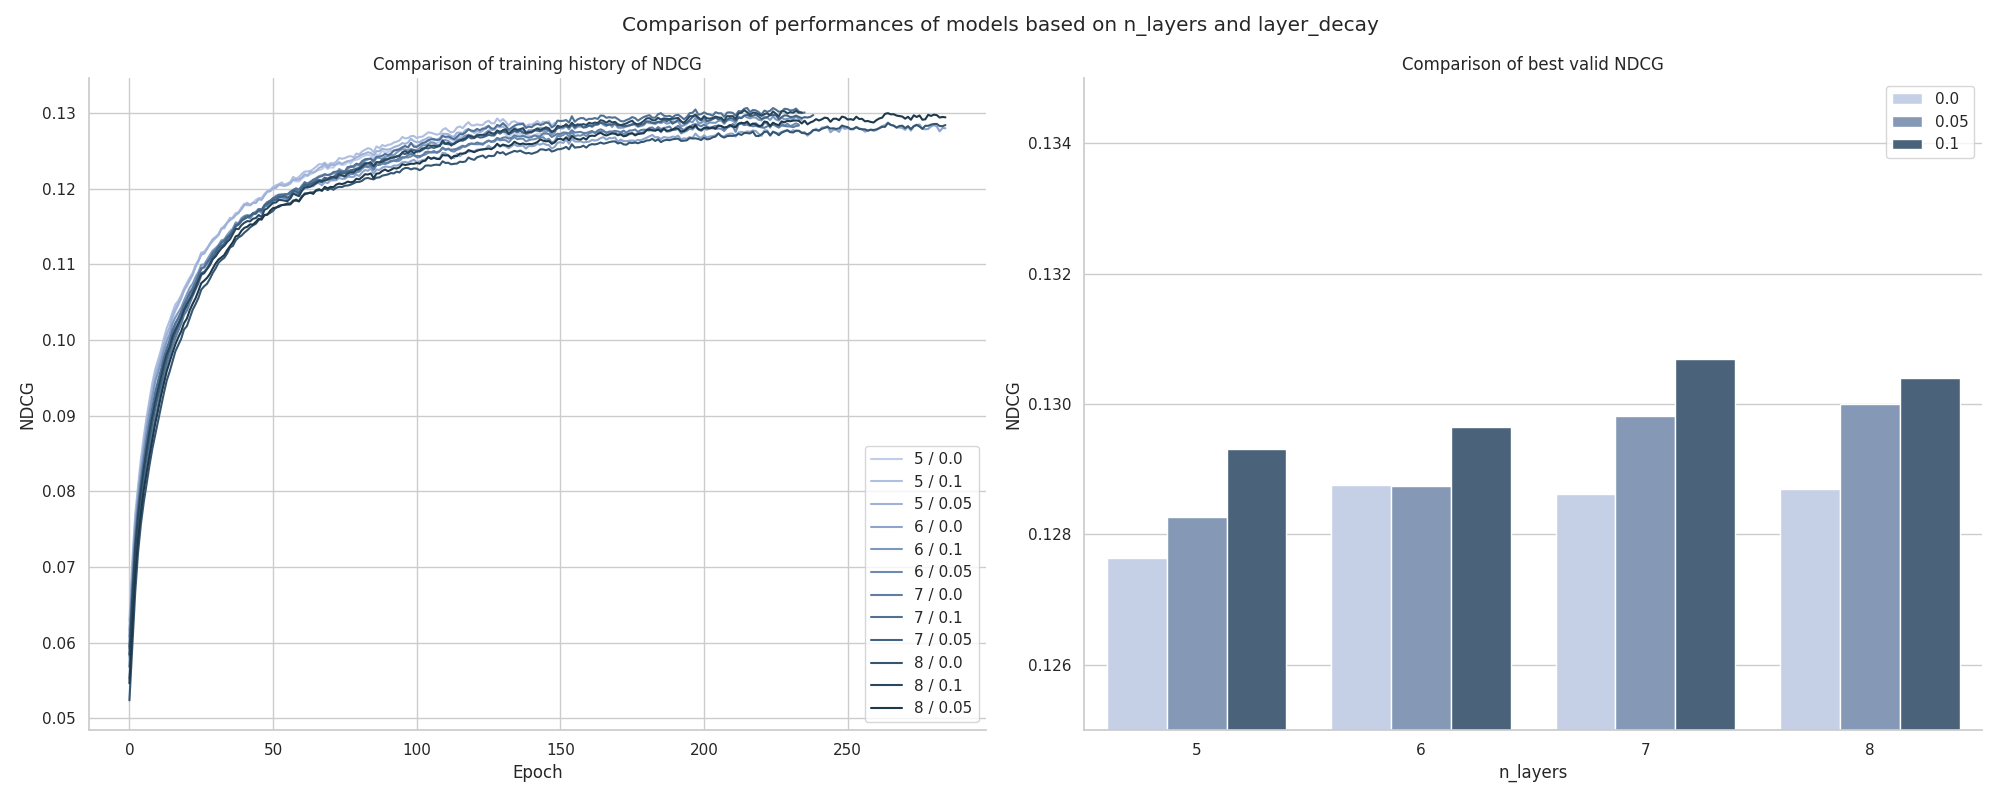
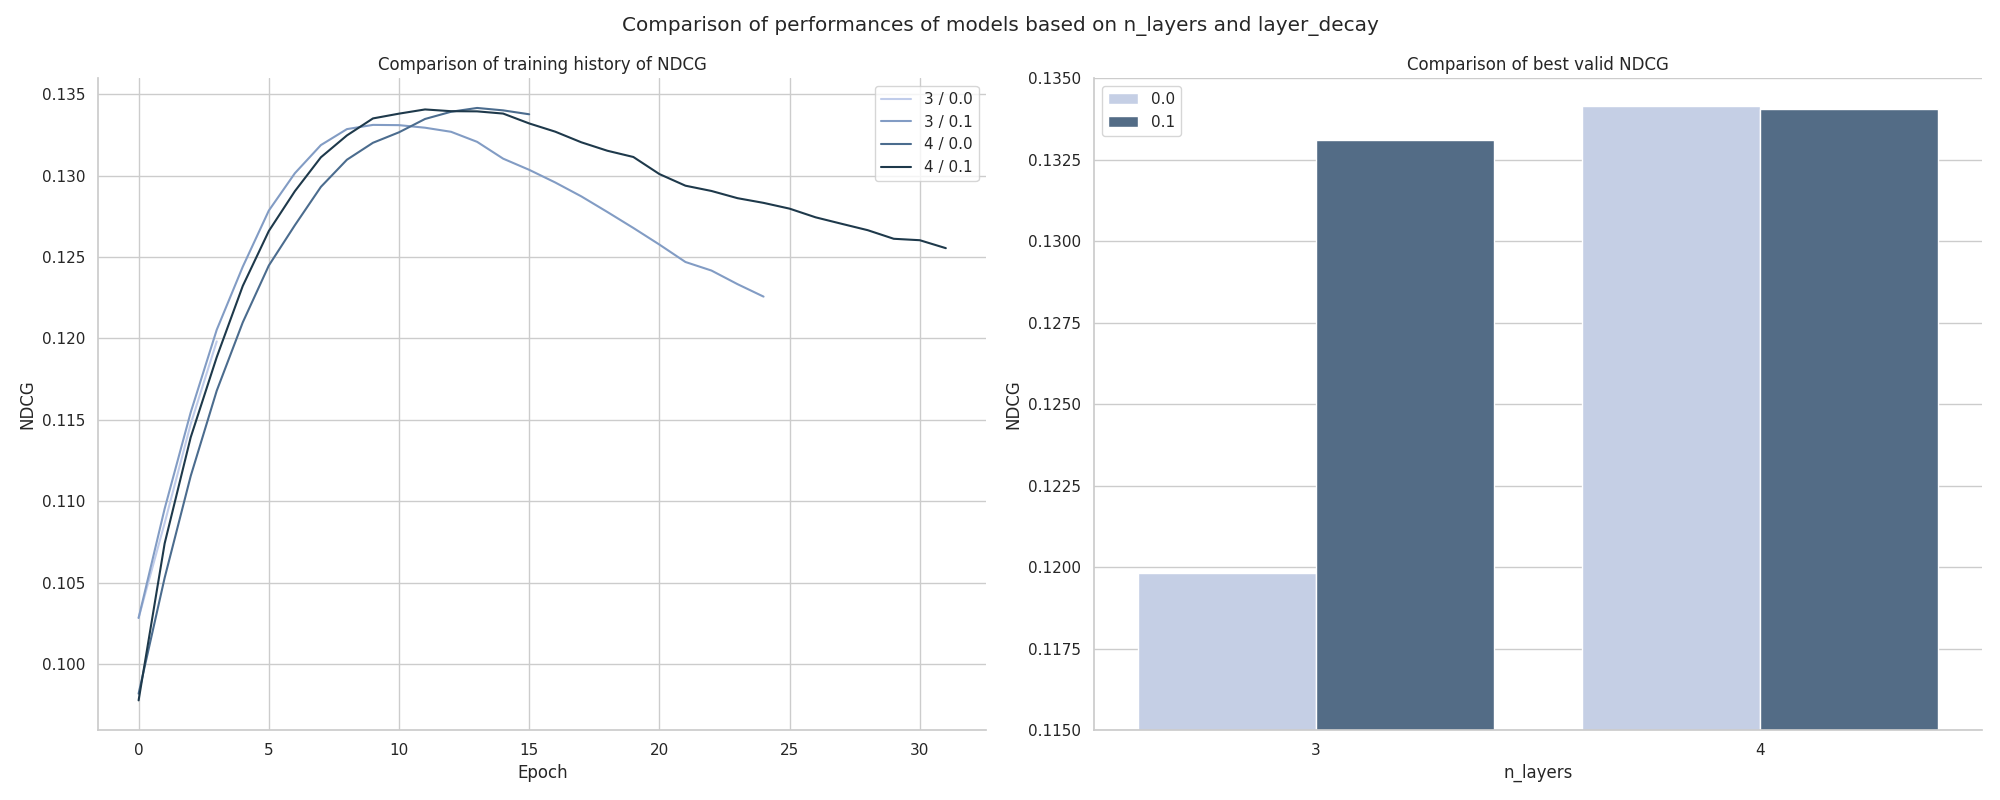
SimGCL without layer decay

diff --git a/evaluation/compare_models.py b/evaluation/compare_models.py
@@ -203,6 +203,26 @@ if __name__ == "__main__":
     plot_comparisons_two_targets(names, targets, config_path, target_name=None, sub_target_name=None)
 
     names = [
+        "emb_512_n_layers_3_reg_0.001_gentle_0.1_gcl",
+        "emb_512_n_layers_4_reg_0.001_gentle_0.1_gcl",
+        "emb_512_n_layers_5_reg_0.001_gentle_0.1_gcl",
+        "emb_512_n_layers_6_reg_0.001_gentle_0.1_gcl",
+        "emb_512_n_layers_7_reg_0.001_gentle_0.1_gcl",
+        "emb_512_n_layers_8_reg_0.001_gentle_0.1_gcl",
+    ]
+    targets = ["model", "n_layers"]
+    plot_comparisons_one_target(names, targets, config_path, target_name="emb_512_reg_0.001_gentle_0.1_gcl_n_layers")
+
+    names = [
+        "emb_512_n_layers_3_reg_0.001_gcl",
+        "emb_512_n_layers_3_reg_0.001_gentle_0.1_gcl",
+        "emb_512_n_layers_4_reg_0.001_gcl",
+        "emb_512_n_layers_4_reg_0.001_gentle_0.1_gcl"
+    ]
+    targets = [["model", "n_layers"], ["model", "layer_decay"]]
+    plot_comparisons_two_targets(names, targets, config_path, target_name=None, sub_target_name=None)
+
+    names = [
         "time_decay_0.001_0.1",
         "time_decay_0.001_0.3",
         "time_decay_0.0005_0.1",
